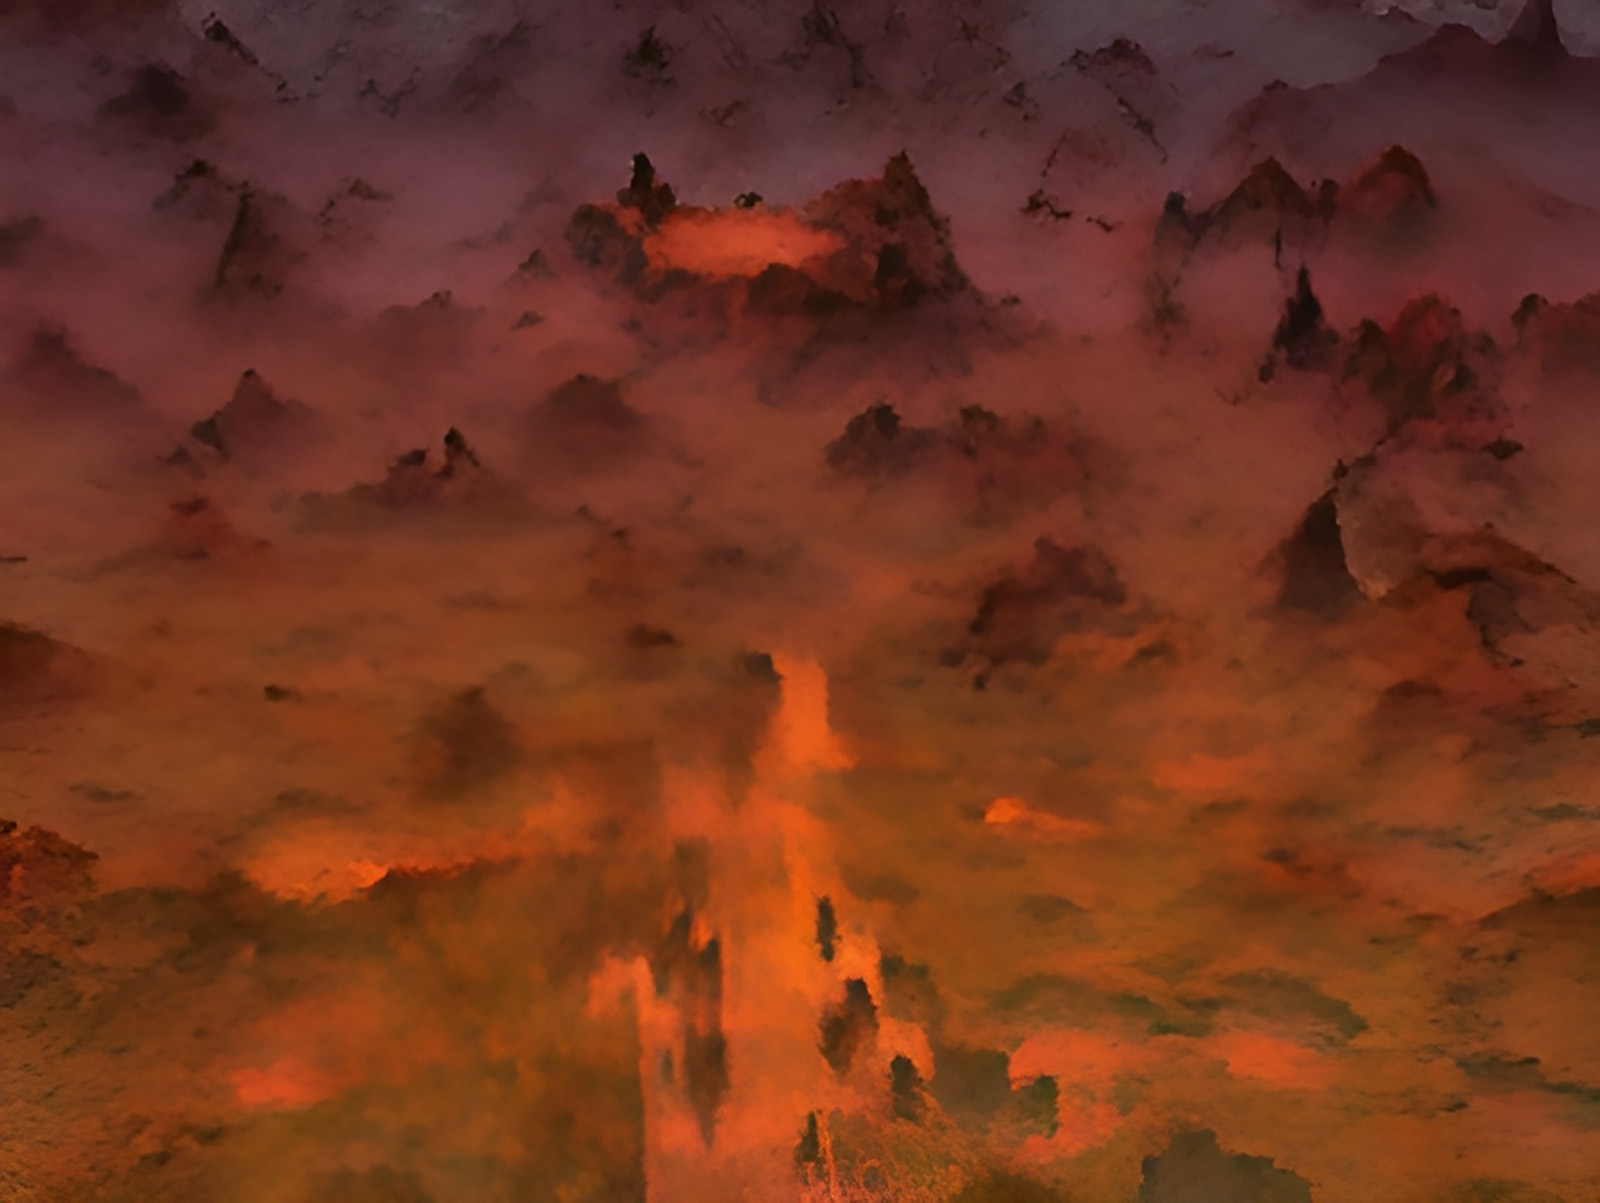
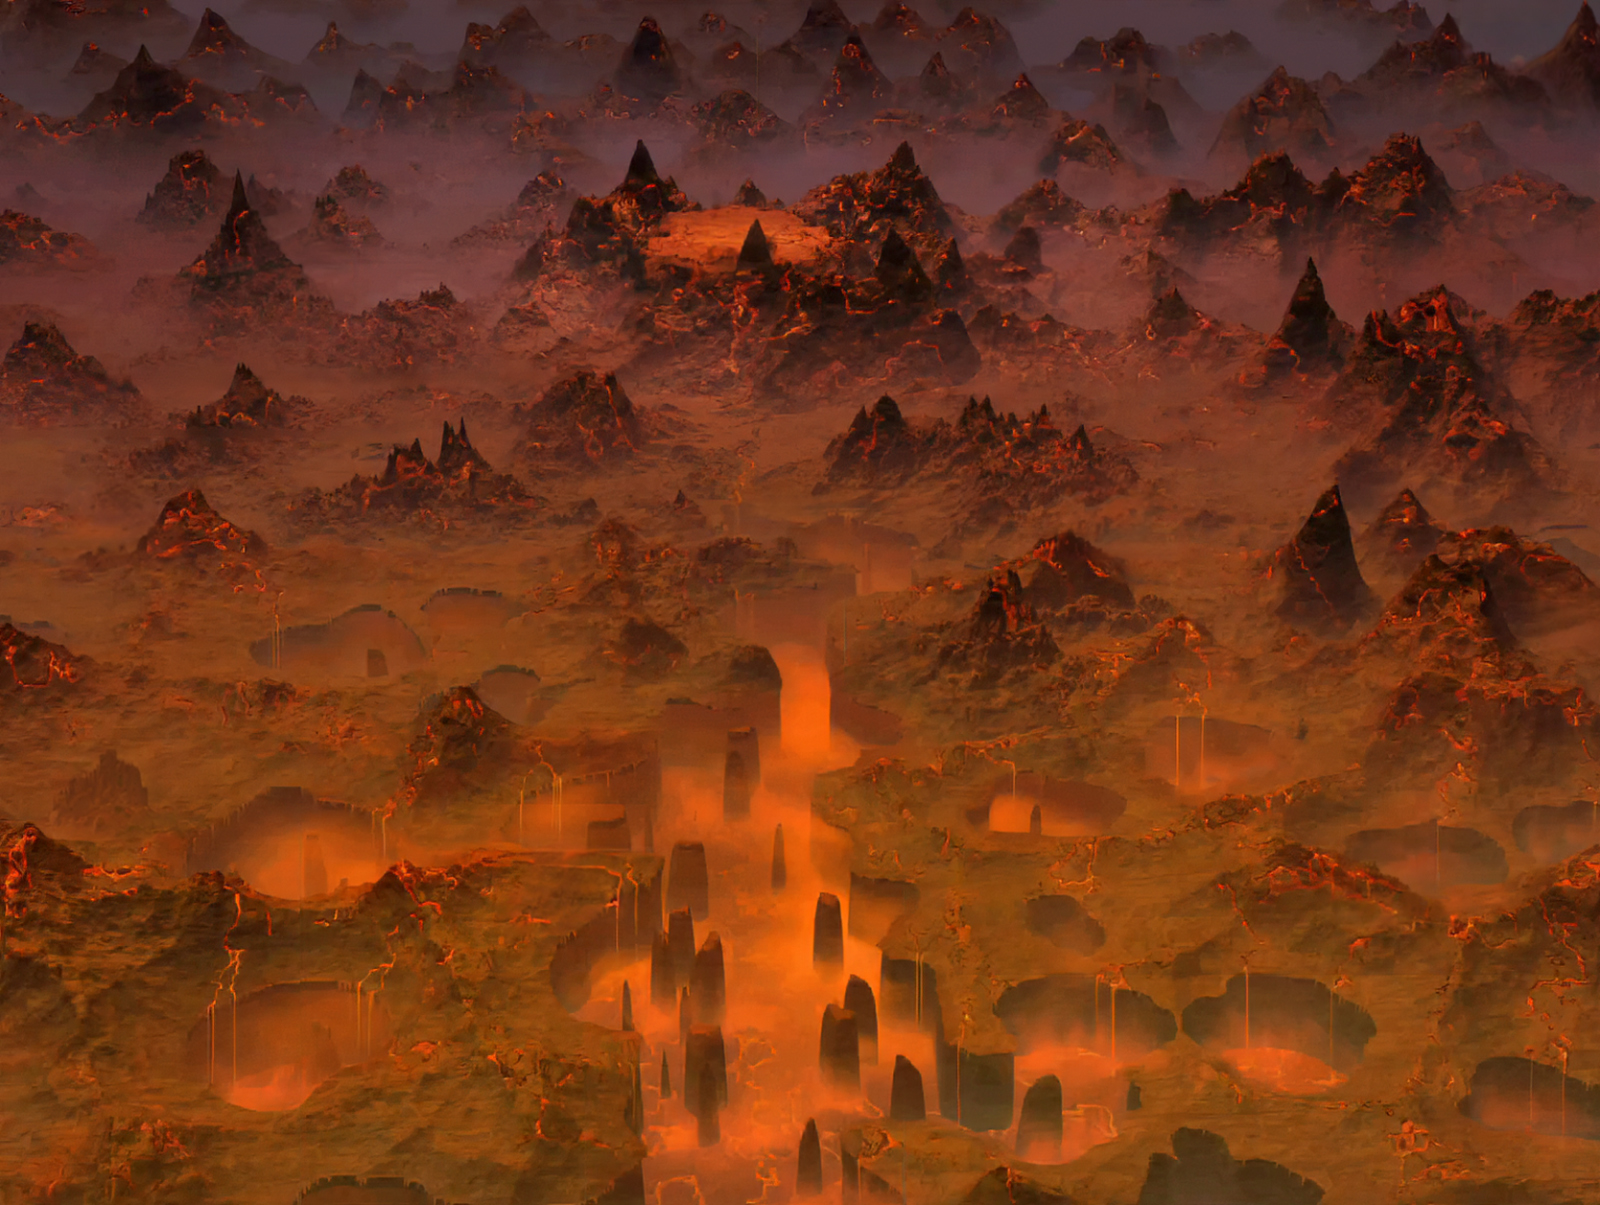
Added Inferno MapRoom background asset | Added TODO comments

diff --git a/server/src/data/tribes/molochTribes.ts b/server/src/data/tribes/molochTribes.ts
@@ -39857,4 +39857,109 @@ export const molochTribes = [
     sentgifts: [],
     fbpromos: [],
   },
+  {
+    baseid: "214",
+    type: "iwm",
+    userid: 0,
+    wmid: 0,
+    createtime: 0,
+    savetime: 0,
+    seed: 0,
+    saveuserid: 0,
+    bookmarked: 0,
+    fan: 0,
+    emailshared: 1,
+    unreadmessages: 0,
+    giftsentcount: 0,
+    id: 509,
+    canattack: false,
+    cellid: 826472,
+    baseid_inferno: 0,
+    fbid: "100002268912813",
+    fortifycellid: 0,
+    name: "",
+    level: 1,
+    catapult: 0,
+    flinger: 0,
+    destroyed: 0,
+    damage: 0,
+    locked: 0,
+    protected: 1,
+    lastupdate: 0,
+    usemap: 1,
+    credits: 0,
+    champion: "null",
+    empiredestroyed: 1,
+    worldid: "2140",
+    event_score: 0,
+    chatenabled: 0,
+    relationship: 0,
+    timeplayed: 0,
+    version: 128,
+    clienttime: 0,
+    baseseed: 4520,
+    healtime: 0,
+    empirevalue: 0,
+    attackreport: "",
+    over: 1,
+    protect: 0,
+    attackid: 0,
+    purchasecomplete: 0,
+    buildingdata: {
+      "0": {
+        l: 6,
+        X: -175,
+        Y: -135,
+        t: 14,
+        id: 0,
+      }
+    },
+    buildingkeydata: {},
+    researchdata: {},
+    stats: {},
+    academy: {},
+    rewards: {},
+    aiattacks: {},
+    monsters: {},
+    resources: {
+      r1: 4000,
+      r2: 4000,
+      r3: 4000,
+      r4: 4000,
+      r1max: 10000,
+      r2max: 10000,
+      r3max: 10000,
+      r4max: 10000,
+    },
+    lockerdata: {},
+    events: {},
+    inventory: {},
+    monsterbaiter: {},
+    loot: {},
+    storedata: {},
+    coords: {},
+    quests: {},
+    player: {},
+    krallen: {},
+    buildingresources: {},
+    mushrooms: {},
+    iresources: {},
+    monsterupdate: [],
+    buildinghealthdata: {},
+    frontpage: {},
+    attackcreatures: {},
+    attackloot: {},
+    lootreport: {},
+    savetemplate: [],
+    updates: [],
+    effects: [],
+    outposts: [],
+    wmstatus: [],
+    achieved: [],
+    attacks: [],
+    gifts: [],
+    sentinvites: [],
+    sentgifts: [],
+    fbpromos: [],
+  }
 ];

diff --git a/server/src/controllers/maproom/inferno/getNeighbours.ts b/server/src/controllers/maproom/inferno/getNeighbours.ts
@@ -1,22 +1,11 @@
 import { KoaController } from "../../../utils/KoaController";
 import { Status } from "../../../enums/StatusCodes";
 
-// bases = real players
-// wmbases = inferno wild monsters
+// Tribes scale with the player's current level.
+// The 'wmstatus' field on the inferno save is used to fetch the tribe data.
+// TODO: Figure out the baseid for these tribes, due to conflicts with real player bases
 export const getNeighbours: KoaController = async (ctx) => {
-  const wmbases = [
-    {
-      baseid: 1,
-      level: 10,
-      type: "iwm",
-      description: "Inferno Base",
-      wm: 1,
-      friend: 0,
-      pic: "",
-      basename: "Moloch's Minions",
-    },
-  ];
-
+  // TODO: Create a system for getting a group of real player bases
   const bases = [
     {
       baseid: 2,
@@ -34,7 +23,7 @@ export const getNeighbours: KoaController = async (ctx) => {
   ctx.status = Status.OK;
   ctx.body = {
     error: 0,
-    wmbases,
-    bases,
+    wmbases: [],
+    bases: [],
   };
 };
